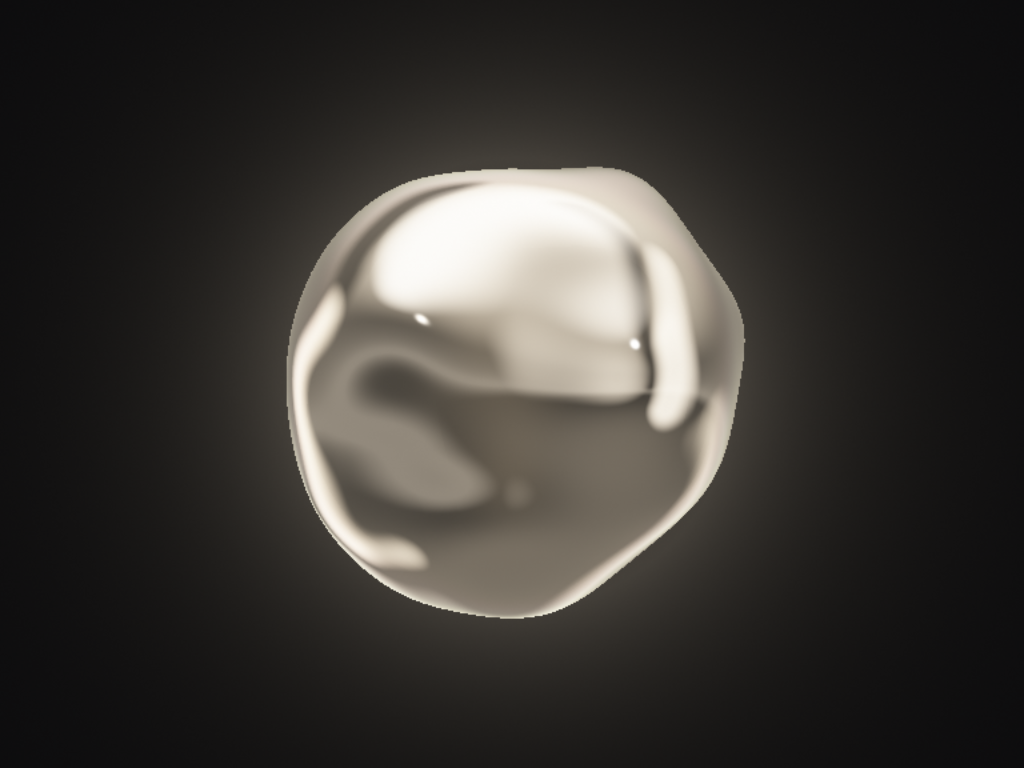
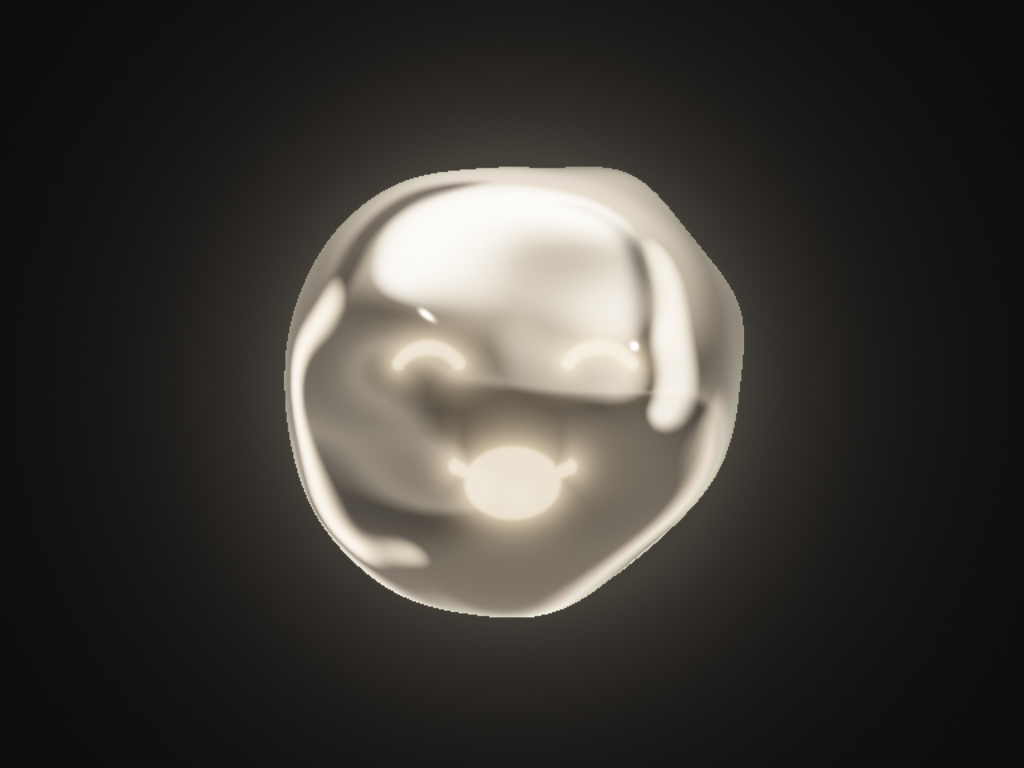
feat(web): lava face on the blob
The lava under the skin now draws two eyes and a mouth that glow through the
metal. Each state has its own expression (eased like the colour), the eyes
blink every 3 to 6 s, the mouth follows the playback level while speaking, and
the face rides the alert shapes through the morph.

diff --git a/web/src/render/tables.ts b/web/src/render/tables.ts
@@ -15,16 +15,31 @@ export interface Look {
   levelGain: number; // how much the mic or playback level deforms the surface
   glow: number; // inner glow and halo strength
   bright: number; // overall brightness
+  // Lava face (units of the blob radius, y up). Eyes are ellipses that blend
+  // into happy arcs; the mouth is a curve that can open into an ellipse.
+  eyeW: number; // eye half width
+  eyeH: number; // eye half height (blinks scale it)
+  eyeY: number; // eye height above the centre
+  gazeX: number; // where the face looks
+  gazeY: number;
+  happy: number; // 0 open eyes, 1 happy arcs
+  smile: number; // mouth curvature: + smile, - frown
+  mouth: number; // mouth opening, half height
+  talk: number; // extra opening per unit of level
+  face: number; // face strength, 0 hides it
 }
+
+type Face = Pick<Look, 'eyeW' | 'eyeH' | 'eyeY' | 'gazeX' | 'gazeY' | 'happy' | 'smile' | 'mouth' | 'talk' | 'face'>;
+const FACE: Face = { eyeW: 0.11, eyeH: 0.16, eyeY: 0.075, gazeX: 0, gazeY: 0, happy: 0, smile: 1.9, mouth: 0, talk: 0, face: 1 };
 
 export type LookRow = 'idle' | 'listening' | 'thinking' | 'speaking' | 'error';
 
 export const STATE_LOOK: Record<LookRow, Look> = {
-  idle: { color: [0.2, 0.13, 0.85], lava: [0.62, 0.22, 1.0], speed: 0.22, amp: 0.1, breath: 0.035, breathHz: 0.16, levelGain: 0, glow: 0.7, bright: 0.9 },
-  listening: { color: [0.08, 0.78, 1.0], lava: [0.1, 1.0, 0.75], speed: 0.45, amp: 0.12, breath: 0.012, breathHz: 0.3, levelGain: 1, glow: 0.95, bright: 1.0 },
-  thinking: { color: [1.0, 0.4, 0.02], lava: [1.0, 0.3, 0.03], speed: 0.32, amp: 0.13, breath: 0.05, breathHz: 0.42, levelGain: 0, glow: 1.2, bright: 1.0 },
-  speaking: { color: [1.0, 0.88, 0.7], lava: [1.0, 0.78, 0.5], speed: 0.35, amp: 0.1, breath: 0.015, breathHz: 0.25, levelGain: 0.8, glow: 1.7, bright: 1.15 },
-  error: { color: [0.42, 0.42, 0.45], lava: [0.55, 0.55, 0.6], speed: 0.1, amp: 0.06, breath: 0.02, breathHz: 0.12, levelGain: 0.5, glow: 0.3, bright: 0.45 },
+  idle: { color: [0.2, 0.13, 0.85], lava: [0.62, 0.22, 1.0], speed: 0.22, amp: 0.1, breath: 0.035, breathHz: 0.16, levelGain: 0, glow: 0.7, bright: 0.9, ...FACE },
+  listening: { color: [0.08, 0.78, 1.0], lava: [0.1, 1.0, 0.75], speed: 0.45, amp: 0.12, breath: 0.012, breathHz: 0.3, levelGain: 1, glow: 0.95, bright: 1.0, ...FACE, eyeW: 0.135, eyeH: 0.21, eyeY: 0.12, smile: 1.2, face: 1.1 },
+  thinking: { color: [1.0, 0.4, 0.02], lava: [1.0, 0.3, 0.03], speed: 0.32, amp: 0.13, breath: 0.05, breathHz: 0.42, levelGain: 0, glow: 1.2, bright: 1.0, ...FACE, eyeW: 0.1, eyeH: 0.14, gazeX: 0.1, gazeY: 0.18, smile: 0.3 },
+  speaking: { color: [1.0, 0.88, 0.7], lava: [1.0, 0.78, 0.5], speed: 0.35, amp: 0.1, breath: 0.015, breathHz: 0.25, levelGain: 0.8, glow: 1.7, bright: 1.15, ...FACE, eyeY: 0.05, happy: 1, smile: 1.5, mouth: 0.06, talk: 0.12 },
+  error: { color: [0.42, 0.42, 0.45], lava: [0.55, 0.55, 0.6], speed: 0.1, amp: 0.06, breath: 0.02, breathHz: 0.12, levelGain: 0.5, glow: 0.3, bright: 0.45, ...FACE, eyeH: 0.02, smile: -1.2, face: 0.5 },
 };
 
 export function lookFor(view: Exclude<View, 'alert'>): Look {
@@ -56,9 +71,15 @@ export function alertShape(source: string): ShapeId {
   return SOURCE_SHAPE[source] ?? DEFAULT_ALERT_SHAPE;
 }
 
+// Info is a content face; urgent is surprised: round eyes, open mouth.
+const ALERT_FACE: Record<Urgency, Face> = {
+  info: { ...FACE, eyeW: 0.12, eyeH: 0.17 },
+  urgent: { ...FACE, eyeW: 0.14, eyeH: 0.14, smile: 0, mouth: 0.13 },
+};
+
 export function alertLook(urgency: Urgency): Look {
   const breathHz = urgency === 'urgent' ? INFO_PULSE_HZ * URGENT_PULSE_FACTOR : INFO_PULSE_HZ;
-  return { ...ALERT_MOTION, color: [...ALERT_COLOR[urgency]], lava: [...ALERT_LAVA[urgency]], breathHz };
+  return { ...ALERT_MOTION, ...ALERT_FACE[urgency], color: [...ALERT_COLOR[urgency]], lava: [...ALERT_LAVA[urgency]], breathHz };
 }
 
 // Lava lobes for the shader (uLobes): centre in units of the blob radius and

diff --git a/web/src/render/blob.ts b/web/src/render/blob.ts
@@ -7,6 +7,7 @@ import {
   Scene,
   Vector2,
   Vector3,
+  Vector4,
   WebGLRenderer,
 } from 'three';
 import fragmentShader from './blob.frag?raw';
@@ -25,6 +26,12 @@ const EASE_S = 0.6; // time constant of the state crossfade
 export const MAX_QUALITY = 2;
 const SLOW_MS = 50; // under 20 fps
 const SLOW_FOR_S = 4;
+const BLINK_S = 0.16; // one blink, closed at the middle
+const FACE_KEYS = ['eyeW', 'eyeH', 'eyeY', 'gazeX', 'gazeY', 'happy', 'smile', 'mouth', 'talk', 'face'] as const;
+
+// Open time before blink n: 3 to 6 s from a fixed sequence, so frozen film
+// strips stay reproducible.
+const blinkGap = (n: number) => 3 + 3 * (Math.sin(n * 12.9898) * 0.5 + 0.5);
 
 export interface FrameInput {
   view: View;
@@ -55,6 +62,8 @@ export class BlobRenderer {
   private lastDraw = 0;
   private level = 0;
   private flashT = 0;
+  private blinkT = 0; // time since the last blink ended
+  private blinkN = 1;
   private raf = 0;
   quality = MAX_QUALITY;
   autoQuality = true;
@@ -93,6 +102,9 @@ export class BlobRenderer {
         uShapeB: { value: first.shape },
         uMix: { value: 0 },
         uLobes: { value: new Float32Array(LOBE_COUNT * 4) },
+        uEyes: { value: new Vector4() },
+        uGaze: { value: new Vector2() },
+        uMouth: { value: new Vector3() },
       },
     });
     this.scene.add(new Mesh(new PlaneGeometry(2, 2), this.material));
@@ -157,6 +169,8 @@ export class BlobRenderer {
     u.uPhase.value = 0;
     this.level = 0;
     this.flashT = 0;
+    this.blinkT = 0;
+    this.blinkN = 1;
   }
 
   // Advances the frozen clock by `dtS` with the given input; draws when asked.
@@ -202,7 +216,7 @@ export class BlobRenderer {
       c.color[i] += (target.color[i] - c.color[i]) * k;
       c.lava[i] += (target.lava[i] - c.lava[i]) * k;
     }
-    for (const key of ['speed', 'amp', 'breath', 'breathHz', 'levelGain', 'glow', 'bright'] as const) {
+    for (const key of ['speed', 'amp', 'breath', 'breathHz', 'levelGain', 'glow', 'bright', ...FACE_KEYS] as const) {
       c[key] += (target[key] - c[key]) * k;
     }
     // Fast attack, slower release, so the surface follows syllables but settles softly.
@@ -210,6 +224,13 @@ export class BlobRenderer {
     this.level += (want - this.level) * (1 - Math.exp(-dt / (want > this.level ? 0.05 : 0.25)));
     this.maxLevel = Math.max(this.maxLevel, this.level);
     this.flashT = Math.max(0, this.flashT - dt / 0.4);
+    this.blinkT += dt;
+    const gap = blinkGap(this.blinkN);
+    if (this.blinkT > gap + BLINK_S) {
+      this.blinkT -= gap + BLINK_S;
+      this.blinkN++;
+    }
+    const open = this.blinkT < gap ? 1 : Math.abs((this.blinkT - gap) / BLINK_S - 0.5) * 2;
 
     const u = this.material.uniforms;
     u.uFlow.value += dt * c.speed;
@@ -225,6 +246,9 @@ export class BlobRenderer {
     u.uShapeA.value = this.morph.a;
     u.uShapeB.value = this.morph.b;
     u.uMix.value = morphMix(this.morph);
+    (u.uEyes.value as Vector4).set(c.eyeW, Math.max(0.012, c.eyeH * open), c.eyeY, c.happy);
+    (u.uGaze.value as Vector2).set(c.gazeX, c.gazeY);
+    (u.uMouth.value as Vector3).set(c.smile, c.mouth + c.talk * this.level, c.face);
     lobes(u.uFlow.value as number, c.amp, u.uLobes.value as Float32Array);
   }
 }

diff --git a/web/src/render/tables.test.ts b/web/src/render/tables.test.ts
@@ -1,5 +1,5 @@
 import { describe, expect, it } from 'vitest';
-import { ALERT_COLOR, SHAPE, alertLook, alertShape } from './tables';
+import { ALERT_COLOR, SHAPE, STATE_LOOK, alertLook, alertShape } from './tables';
 
 describe('alert table', () => {
   it('timer is a triangle, every other source a square', () => {
@@ -19,5 +19,20 @@ describe('alert table', () => {
   it('returns a copy, so the renderer can ease it in place', () => {
     alertLook('info').color[0] = 9;
     expect(ALERT_COLOR.info[0]).not.toBe(9);
+  });
+});
+
+describe('lava face', () => {
+  it('only speaking smiles with happy eyes and moves the mouth with the level', () => {
+    for (const [row, look] of Object.entries(STATE_LOOK)) {
+      expect(look.happy > 0, row).toBe(row === 'speaking');
+      expect(look.talk > 0, row).toBe(row === 'speaking');
+    }
+  });
+  it('error frowns with closed eyes; alerts keep a face', () => {
+    expect(STATE_LOOK.error.smile).toBeLessThan(0);
+    expect(STATE_LOOK.error.eyeH).toBeLessThan(STATE_LOOK.idle.eyeH / 4);
+    expect(alertLook('info').face).toBeGreaterThan(0);
+    expect(alertLook('urgent').mouth).toBeGreaterThan(0);
   });
 });
